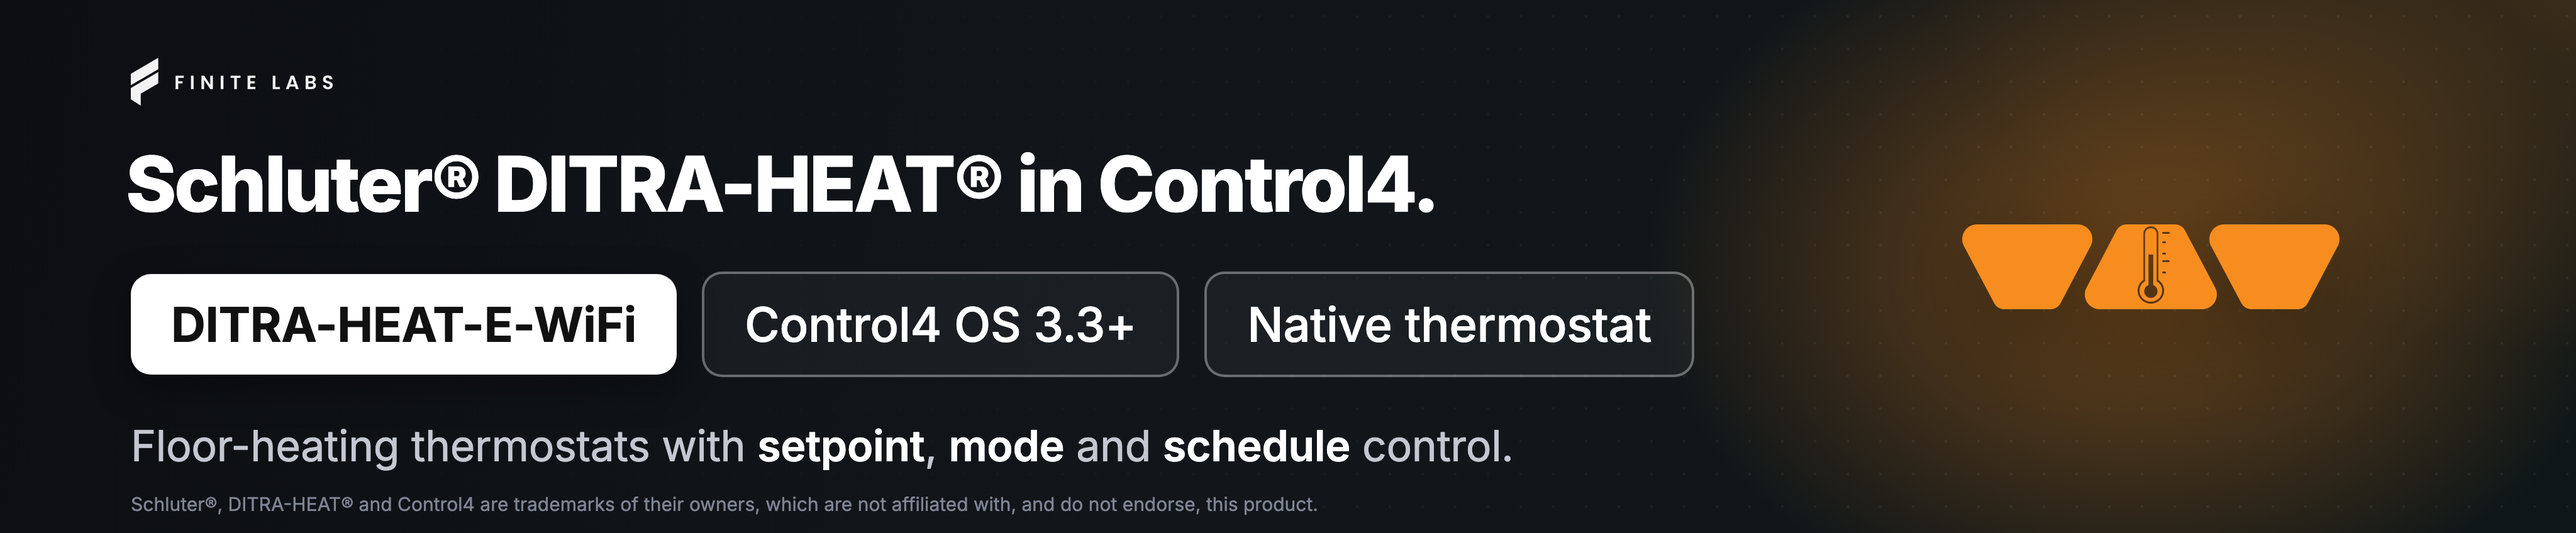
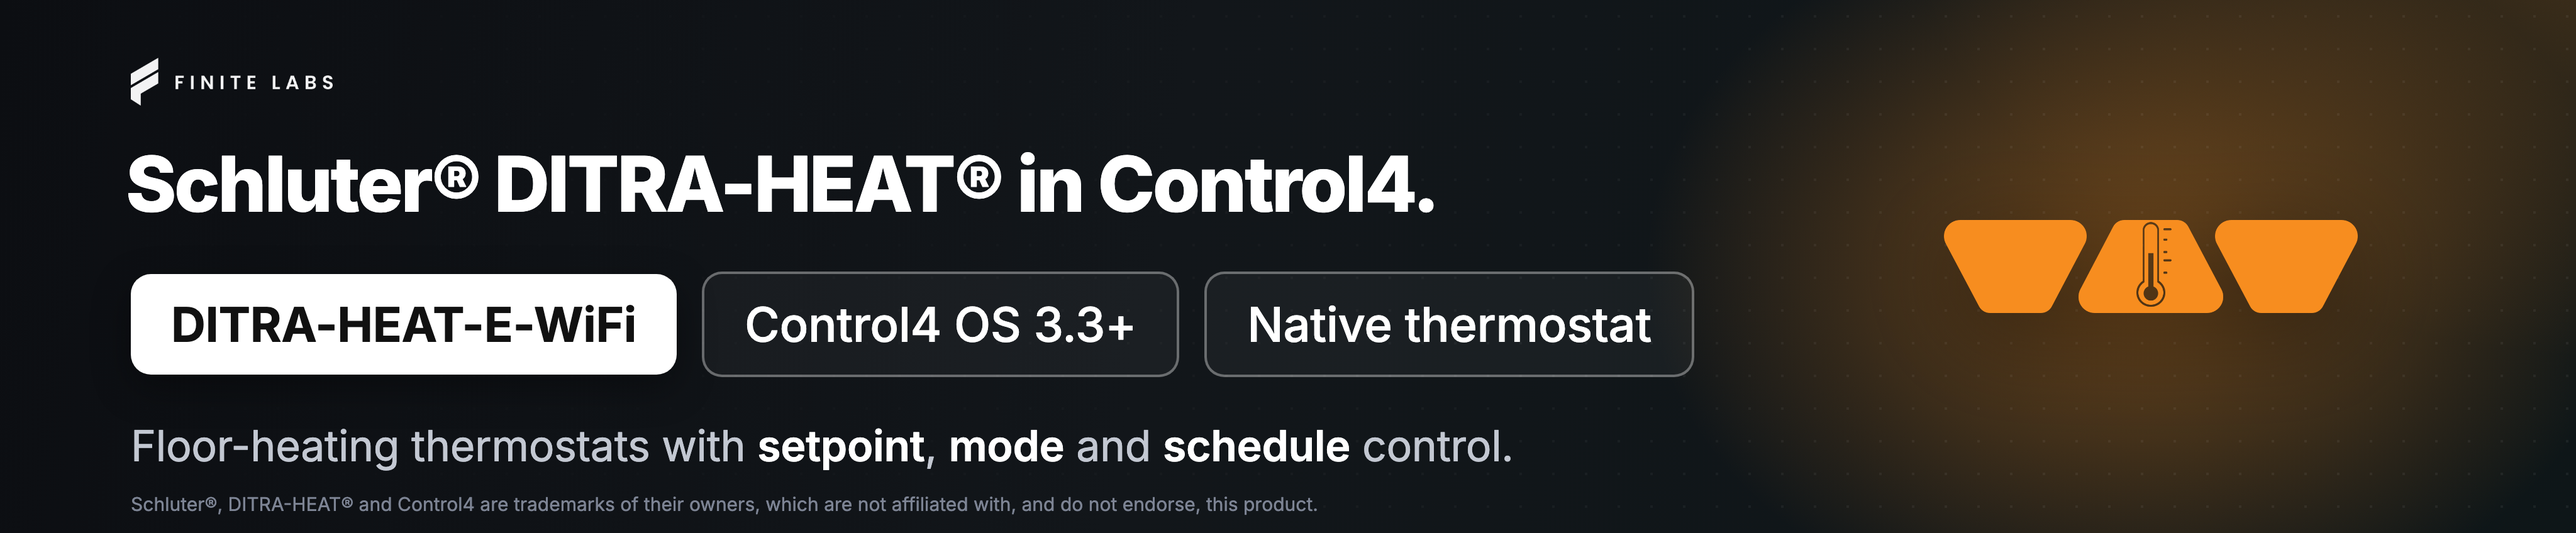
chore: the spotlight and launch-post marks are sized up to match across the drivers

Changed region(s): [[0.75, 0.3986, 0.9375, 0.6132]]

diff --git a/resources/drivercentral/banners/spotlight-4096x848.html b/resources/drivercentral/banners/spotlight-4096x848.html
@@ -20,7 +20,7 @@
   .chip.line { color: #fff; border: 2px solid rgba(255,255,255,0.35); background: rgba(255,255,255,0.04); font-weight: 500; }
   .sub { position: absolute; left: 104px; top: 334px; color: #c3c8d2; font-size: 34px; font-weight: 400; letter-spacing: -0.005em; white-space: nowrap; }
   .sub em { font-style: normal; color: #fff; font-weight: 600; }
-  .mark { position: absolute; left: 1560px; top: 178px; width: 300px; height: 68px; object-fit: contain; filter: drop-shadow(0 18px 40px rgba(0,0,0,0.45)); }
+  .mark { position: absolute; left: 1545px; top: 175px; width: 330px; height: 74px; object-fit: contain; filter: drop-shadow(0 18px 40px rgba(0,0,0,0.45)); }
   .note { position: absolute; left: 104px; bottom: 14px; color: #7d8494; font-size: 15px; letter-spacing: 0; white-space: nowrap; }
 </style></head>
 <body>

diff --git a/resources/drivercentral/banners/launch-post-2400x1200.html b/resources/drivercentral/banners/launch-post-2400x1200.html
@@ -21,7 +21,7 @@
   .chip.line { color: #fff; border: 1.5px solid rgba(255,255,255,0.35); background: rgba(255,255,255,0.04); font-weight: 500; }
   .sub { margin: 32px 0 0 2px; color: #c3c8d2; font-size: 24px; line-height: 1.4; font-weight: 400; letter-spacing: -0.005em; }
   .sub em { font-style: normal; color: #fff; font-weight: 600; }
-  .mark { position: absolute; left: 814px; top: 273px; width: 240px; height: 54px; object-fit: contain; filter: drop-shadow(0 14px 32px rgba(0,0,0,0.45)); }
+  .mark { position: absolute; left: 780px; top: 266px; width: 300px; height: 68px; object-fit: contain; filter: drop-shadow(0 14px 32px rgba(0,0,0,0.45)); }
   .note { position: absolute; left: 74px; right: 74px; bottom: 20px; color: #7d8494; font-size: 13px; line-height: 1.35; }
 </style></head>
 <body>
